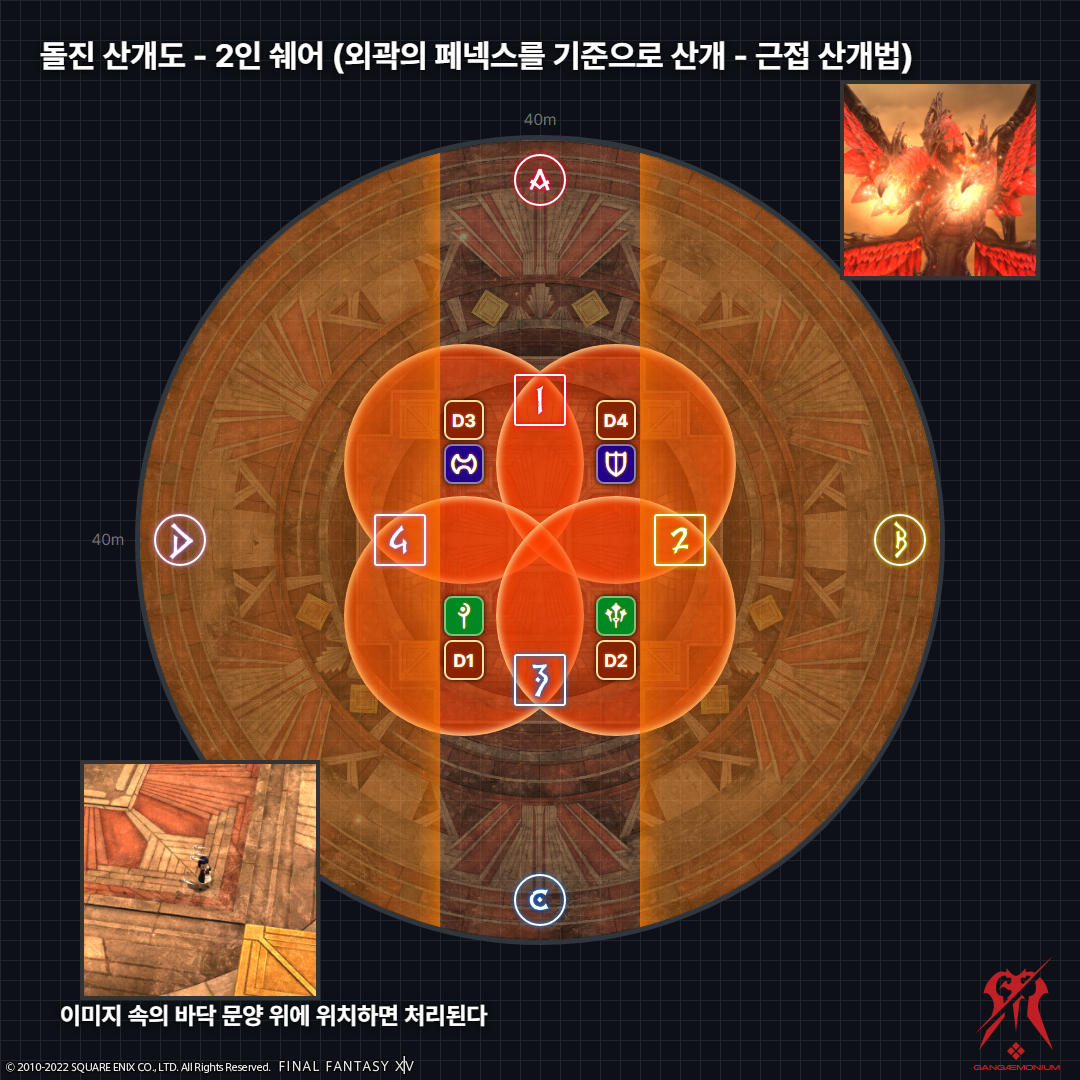
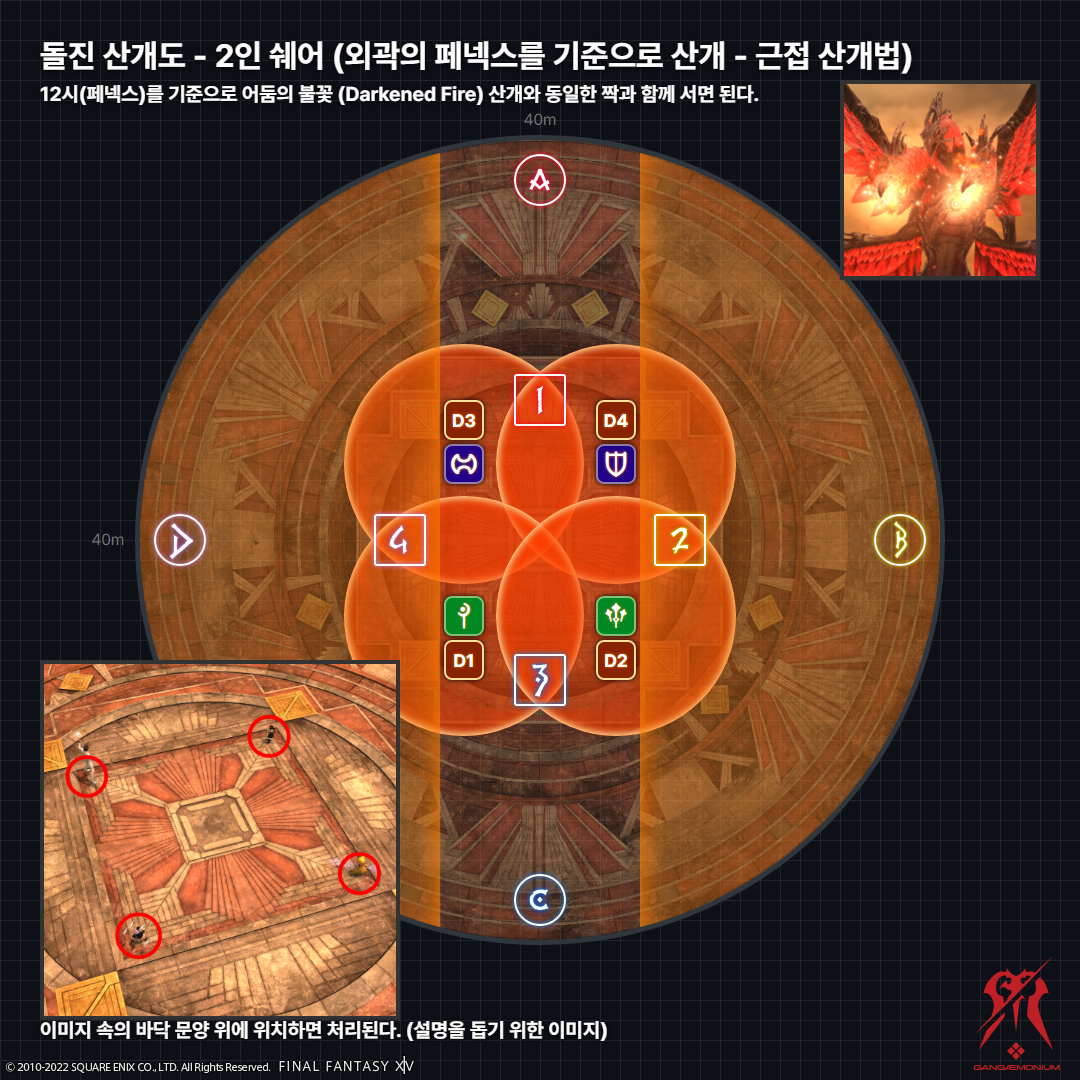
update files

Changed region(s): [[0.0306, 0.6111, 0.5806, 0.9778], [0.0306, 0.0611, 0.7028, 0.0917]]

diff --git a/p3s/README.md b/p3s/README.md
@@ -40,3 +40,5 @@
 ![/p3s/0046.png](https://raw.githubusercontent.com/Gangaemonium/Asphodelos/main/p3s/0046.png)
 ![/p3s/0047.png](https://raw.githubusercontent.com/Gangaemonium/Asphodelos/main/p3s/0047.png)
 ![/p3s/0064.png](https://raw.githubusercontent.com/Gangaemonium/Asphodelos/main/p3s/0064.png)
+![/p3s/0065.png](https://raw.githubusercontent.com/Gangaemonium/Asphodelos/main/p3s/0065.png)
+![/p3s/0066.png](https://raw.githubusercontent.com/Gangaemonium/Asphodelos/main/p3s/0066.png)
